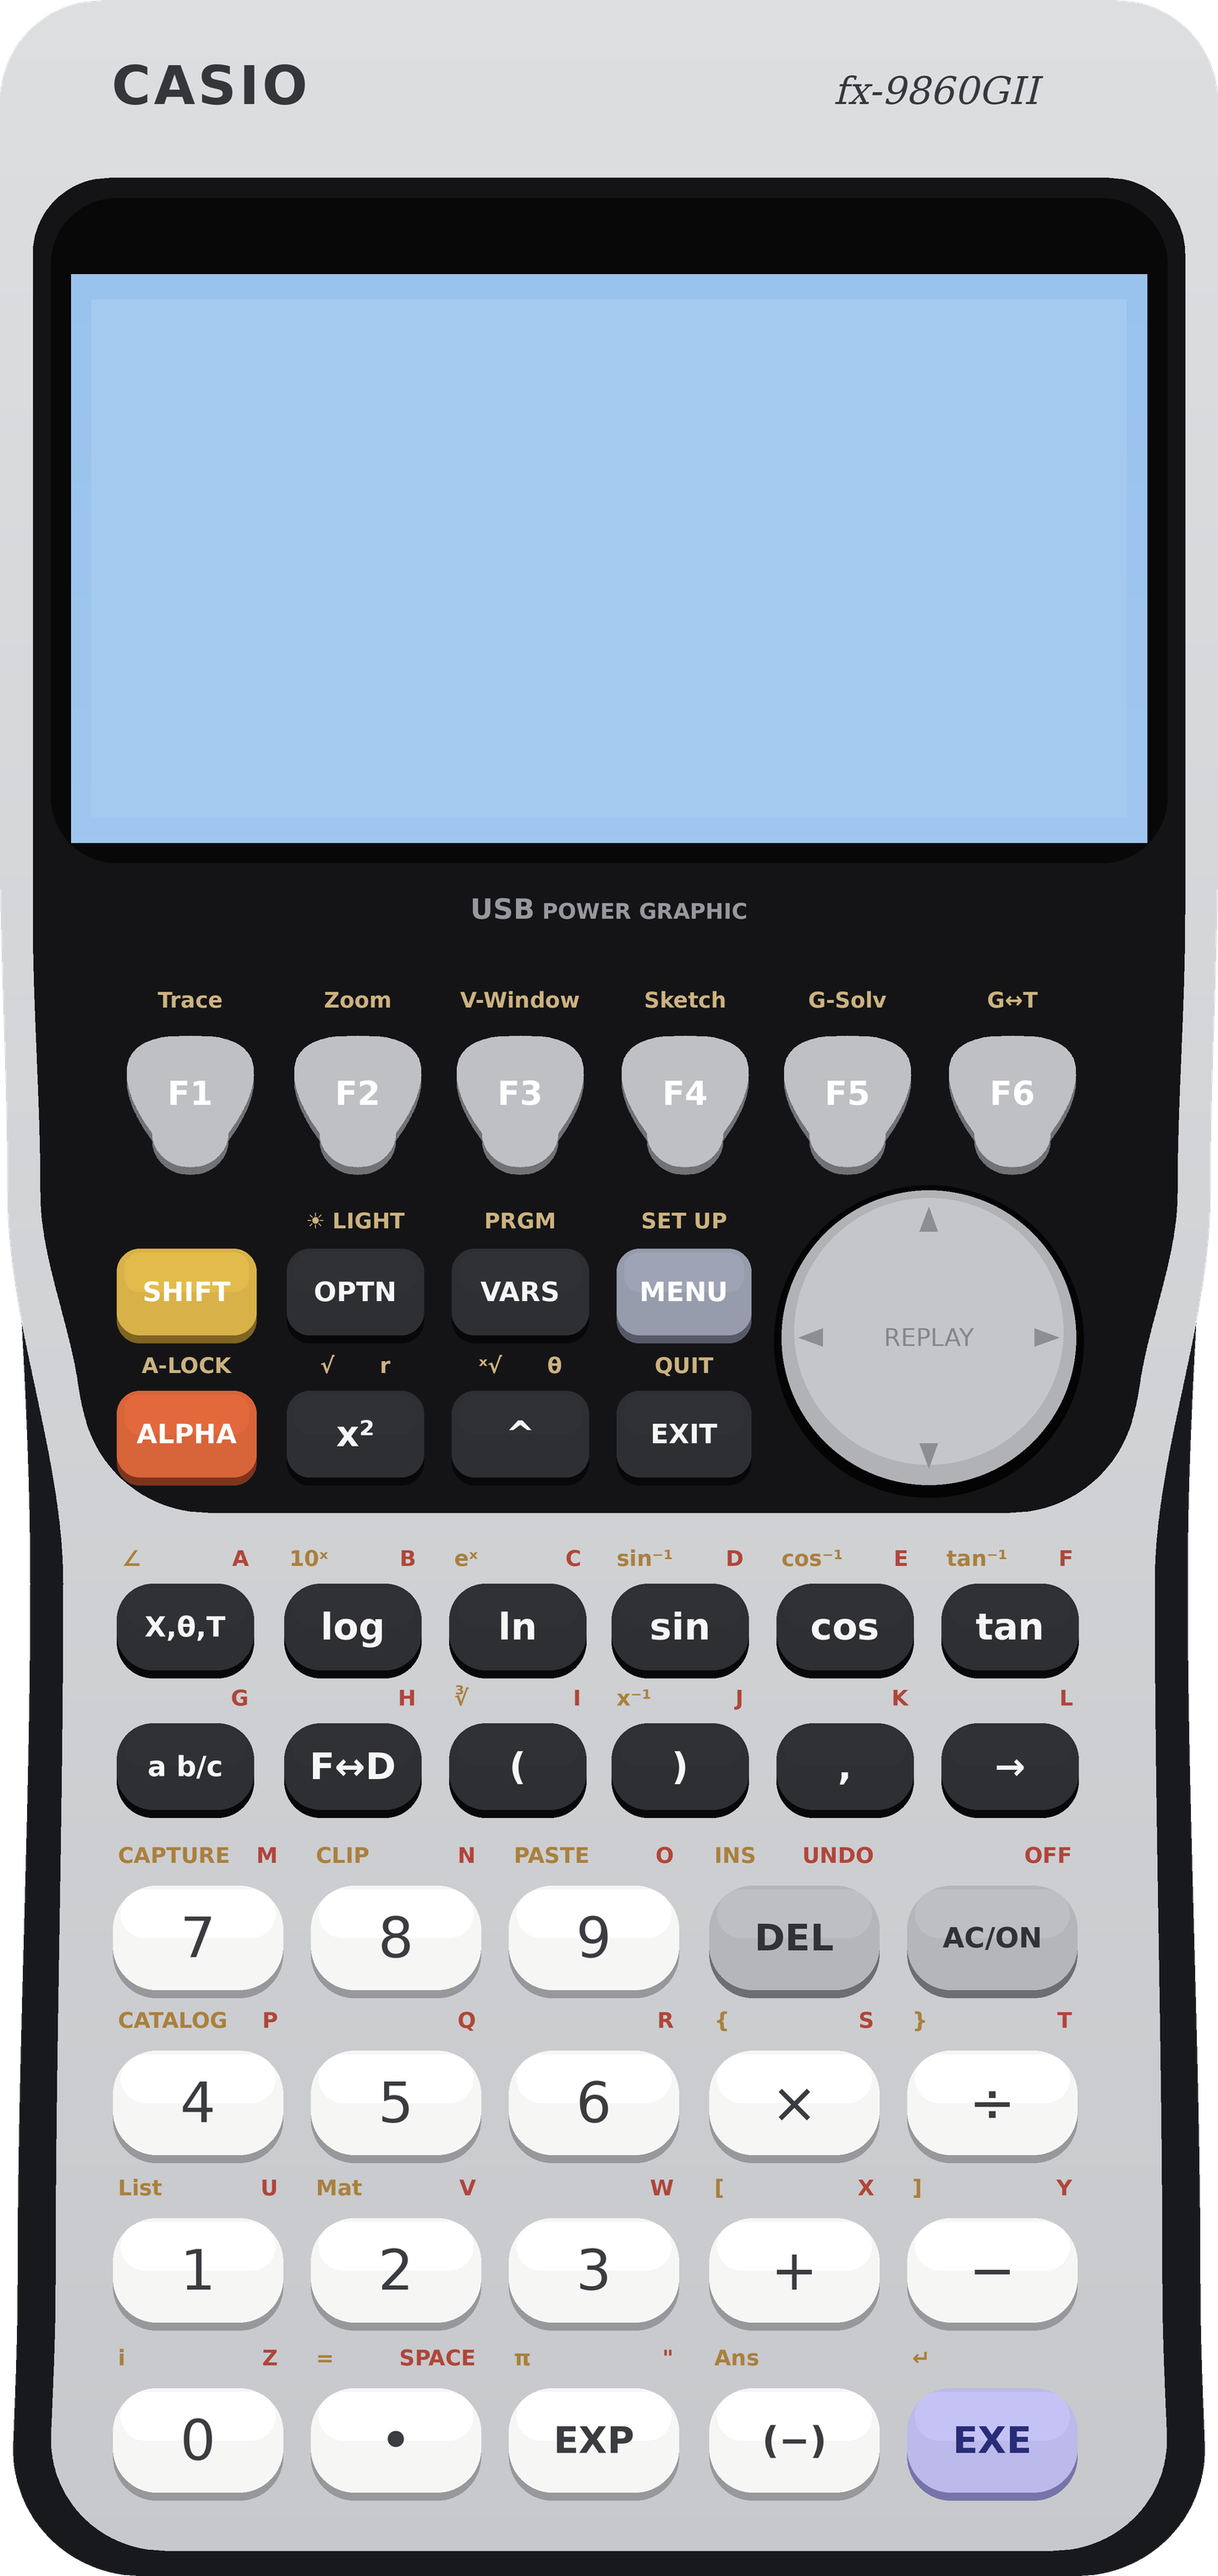
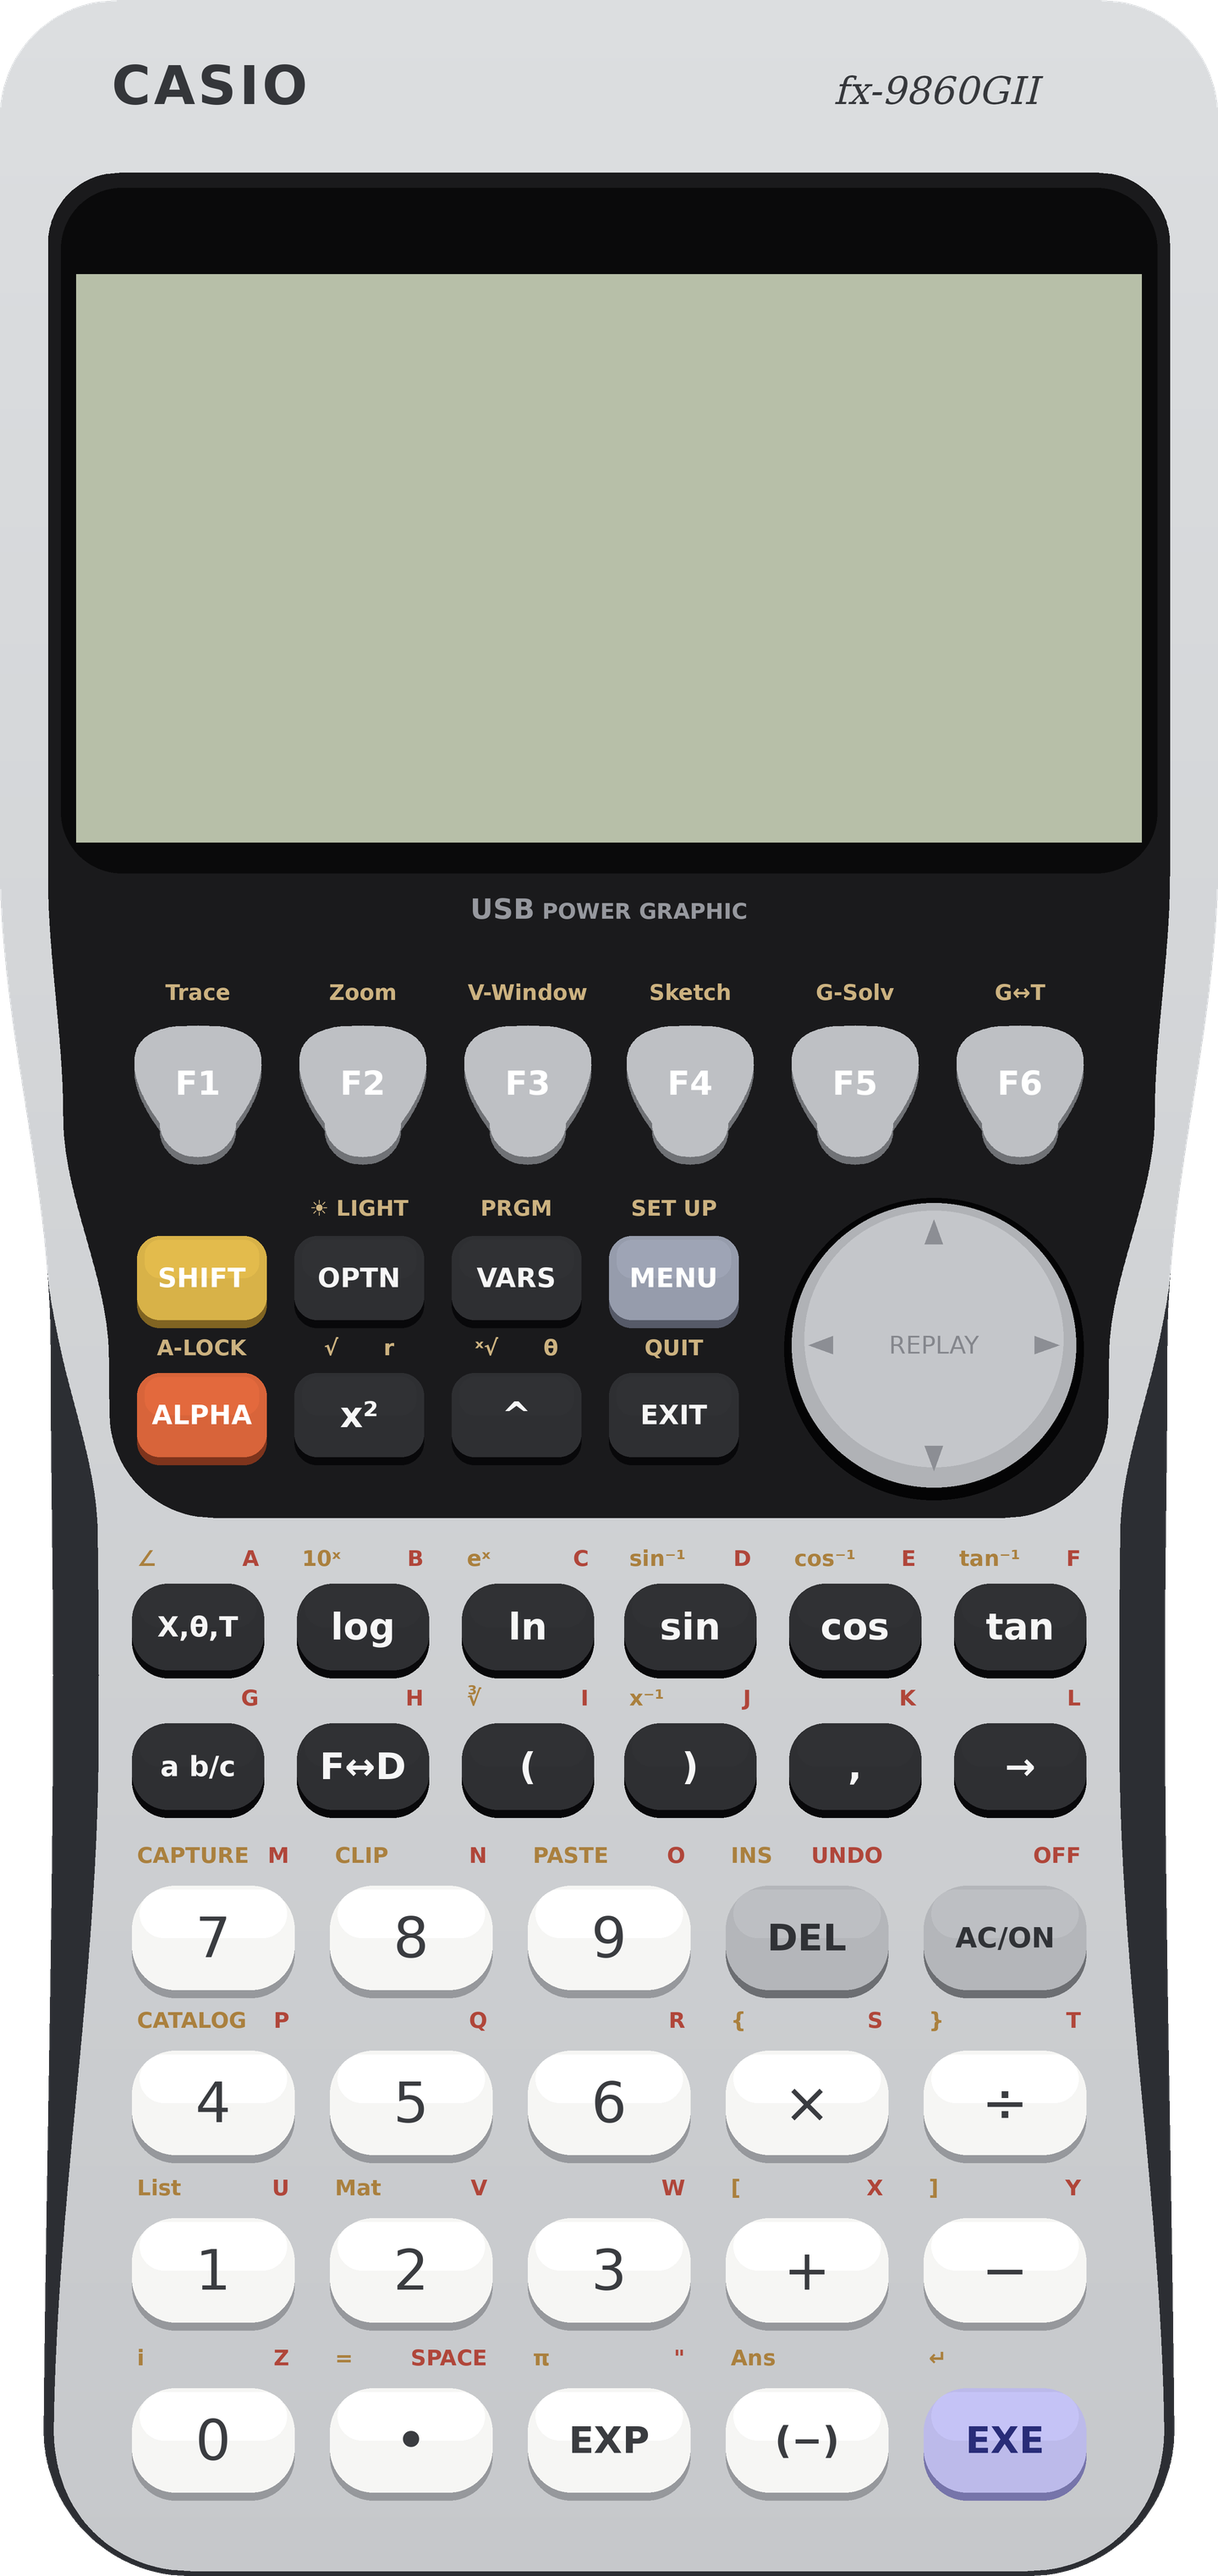
Skin: unlit LCD colours, body shape closer to the real calculator

diff --git a/web/index.html b/web/index.html
@@ -38,7 +38,7 @@
   #turbobadge.show { display: block; }
   /* Messages shown on the (blank) display, e.g. while switched off */
   #lcdmsg { position: absolute; display: none; align-items: center; justify-content: center; text-align: center;
-    padding: 0 30px; font-size: 17px; line-height: 1.4; color: #2c3d5c; }
+    padding: 0 30px; font-size: 17px; line-height: 1.4; color: #4d5446; }
   #lcdmsg.show { display: flex; }
   /* Pop-up menu in the calculator's style: dark panel, key-like entries */
   #pop { position: absolute; left: 238px; top: 336px; width: 200px; padding: 12px; border-radius: 16px;

diff --git a/make_skin.py b/make_skin.py
@@ -1,6 +1,6 @@
 """Draws the web app's calculator skin, modelled on the real fx-9860GII:
-waisted body with black side trim, black upper panel with the blue backlit
-LCD, shield-shaped F-keys, pill-shaped keys. Writes web/skin@3x.png (with
+body tapering below the display, black side trim, black upper panel with the
+LCD (backlight off), shield-shaped F-keys, pill-shaped keys. Writes web/skin@3x.png (with
 transparent corners) and web/layout.json (positions in 1x units).
 
     python3 make_skin.py <output dir> <font dir>
@@ -20,11 +20,10 @@ S = OUT_SCALE * SS
 CX = W / 2
 
 # --- colours, taken from the product photo ---
-SHELL = (24, 25, 28)
+SHELL = (44, 46, 51)
 SILVER_TOP, SILVER_BOTTOM = (220, 222, 224), (198, 200, 203)
-PANEL = (20, 20, 22)
-LCD_GLASS_TOP, LCD_GLASS_BOTTOM = (150, 192, 236), (178, 212, 244)
-LCD_ON, LCD_OFF = (18, 24, 44), (164, 202, 240)
+PANEL = (26, 26, 28)
+LCD_ON, LCD_OFF = (42, 46, 40), (183, 191, 168)   # backlight off
 BRAND = (52, 54, 58)
 PANEL_LABEL = (204, 178, 128)
 GOLD = (170, 128, 62)
@@ -70,12 +69,12 @@ def smooth(ctrl, y):
     return ctrl[-1][1]
 
 
-def outline(ctrl, y0, y1, r_top, r_bot):
-    """Polygon of a symmetric shape with eased sides and rounded corners."""
+def outline(half, y0, y1, r_top, r_bot):
+    """Polygon of a symmetric shape with half-width half(y) and rounded corners."""
     right = []
     y = y0
     while y <= y1 + 1e-6:
-        hw = smooth(ctrl, y)
+        hw = half(y)
         if y - y0 < r_top:
             k = r_top - (y - y0)
             hw -= r_top - math.sqrt(max(0.0, r_top * r_top - k * k))
@@ -102,11 +101,23 @@ def shade(c, k):
     return tuple(max(0, min(255, round(v * k))) for v in c)
 
 
-# --- body: black shell, silver faceplate on top (narrower below the waist) ---
-SHELL_CTRL = [(0, 240), (330, 240), (624, 228), (900, 233), (1015, 236)]
-FACE_CTRL = [(0, 240), (330, 240), (470, 237), (624, 215), (900, 218), (1005, 221)]
-d.polygon(pts(outline(SHELL_CTRL, 0, H, 40, 52)), fill=SHELL)
-fill_gradient(outline(FACE_CTRL, 0, 1005, 40, 46), SILVER_TOP, SILVER_BOTTOM)
+# --- body: full width around the display, tapering beside the upper keys.
+# The silver faceplate pulls in further below the panel, which leaves the
+# black shell visible as a trim on both sides. ---
+SHELL_CTRL = [(0, 240), (340, 240), (530, 220), (660, 219), (1015, 223)]
+TRIM_CTRL = [(0, 0), (500, 0), (604, 18), (690, 18), (960, 4), (1015, 2)]
+
+
+def shell_hw(y):
+    return smooth(SHELL_CTRL, y)
+
+
+def face_hw(y):
+    return shell_hw(y) - smooth(TRIM_CTRL, y)
+
+
+d.polygon(pts(outline(shell_hw, 0, H, 46, 58)), fill=SHELL)
+fill_gradient(outline(face_hw, 0, 1013, 46, 56), SILVER_TOP, SILVER_BOTTOM)
 
 # Brand
 x = 44
@@ -120,15 +131,13 @@ model = model.transform(model.size, Image.AFFINE, (1, 0.25, -6 * S, 0, 1, 0), re
 img.paste(model, (round(318 * S), round(19 * S)), model)
 
 # --- black upper panel with the screen ---
-PANEL_CTRL = [(70, 227), (360, 227), (470, 224), (560, 208), (596, 208)]
-d.polygon(pts(outline(PANEL_CTRL, 70, 596, 30, 50)), fill=PANEL)
-d.rounded_rectangle([20 * S, 78 * S, 460 * S, 340 * S], radius=26 * S, fill=(8, 8, 9))
-# LCD glass (blue backlight), a little larger than the 128x64 pixel area
-GLASS = (28, 108, 452, 332)
+PANEL_CTRL = [(68, 221), (345, 221), (440, 215), (535, 197), (598, 196)]
+d.polygon(pts(outline(lambda y: smooth(PANEL_CTRL, y), 68, 598, 28, 40)), fill=PANEL)
+d.rounded_rectangle([24 * S, 74 * S, 456 * S, 344 * S], radius=24 * S, fill=(10, 10, 11))
+# LCD glass, a little larger than the 128x64 pixel area and in the same colour
+GLASS = (30, 108, 450, 332)
 LCD = (36, 118, 408, 204)           # x, y, w, h of the pixel area
-fill_gradient([(GLASS[0], GLASS[1]), (GLASS[2], GLASS[1]), (GLASS[2], GLASS[3]), (GLASS[0], GLASS[3])],
-              LCD_GLASS_TOP, LCD_GLASS_BOTTOM)
-d.rectangle([LCD[0] * S, LCD[1] * S, (LCD[0] + LCD[2]) * S - 1, (LCD[1] + LCD[3]) * S - 1], fill=LCD_OFF)
+d.rectangle([GLASS[0] * S, GLASS[1] * S, GLASS[2] * S - 1, GLASS[3] * S - 1], fill=LCD_OFF)
 
 # "USB POWER GRAPHIC"
 f_usb = font("DejaVuSans-BoldOblique.ttf" if os.path.exists(os.path.join(FONTS, "DejaVuSans-BoldOblique.ttf"))
@@ -186,18 +195,18 @@ def shield(cx, y0, w, h, style, label, f):
 # --- F-keys ---
 f_small = font("DejaVuSans-Bold.ttf", 8.5)
 f_fkey = font("DejaVuSans-Bold.ttf", 13)
-FX = [75, 141, 205, 270, 334, 399]
+FX = [78, 143, 208, 272, 337, 402]
 for i, (cx, lab) in enumerate(zip(FX, ["Trace", "Zoom", "V-Window", "Sketch", "G-Solv", "G↔T"])):
-    text(cx, 394, lab, f_small, PANEL_LABEL)
-    shield(cx, 408, 50, 52, "fkey", f"F{i + 1}", f_fkey)
-    add(0x91 + i, f"F{i + 1}", (cx - 28, 404, cx + 28, 466))
+    text(cx, 391, lab, f_small, PANEL_LABEL)
+    shield(cx, 404, 50, 52, "fkey", f"F{i + 1}", f_fkey)
+    add(0x91 + i, f"F{i + 1}", (cx - 28, 400, cx + 28, 462))
 
 # --- SHIFT / OPTN / VARS / MENU and ALPHA / x² / ^ / EXIT ---
-COLS = [(46, 101), (113, 167), (178, 232), (243, 296)]
+COLS = [(54, 105), (116, 167), (178, 229), (240, 291)]
 ROWS = [
-    (492, 526, 481, [(0x81, "SHIFT", "SHIFT", "shift", ""), (0x82, "OPTN", "OPTN", "dark", "☀ LIGHT"),
+    (487, 520, 476, [(0x81, "SHIFT", "SHIFT", "shift", ""), (0x82, "OPTN", "OPTN", "dark", "☀ LIGHT"),
                      (0x83, "VARS", "VARS", "dark", "PRGM"), (0x84, "MENU", "MENU", "menu", "SET UP")]),
-    (548, 582, 538, [(0x71, "ALPHA", "ALPHA", "alpha", "A-LOCK"), (0x72, "SQUARE", "x²", "dark", "√      r"),
+    (541, 574, 531, [(0x71, "ALPHA", "ALPHA", "alpha", "A-LOCK"), (0x72, "SQUARE", "x²", "dark", "√      r"),
                      (0x73, "POWER", "^", "dark", "ˣ√      θ"), (0x74, "EXIT", "EXIT", "dark", "QUIT")]),
 ]
 for y0, y1, ly, row in ROWS:
@@ -208,7 +217,7 @@ for y0, y1, ly, row in ROWS:
         add(code, name, (x0 - 4, y0 - 5, x1 + 4, y1 + 7))
 
 # --- REPLAY pad ---
-px, py, R = 366, 527, 58
+px, py, R = 368, 530, 56
 d.ellipse([(px - R - 3) * S, (py - R - 2) * S, (px + R + 3) * S, (py + R + 5) * S], fill=(4, 4, 5))
 d.ellipse([(px - R) * S, (py - R) * S, (px + R) * S, (py + R) * S], fill=(176, 178, 182))
 d.ellipse([(px - R + 5) * S, (py - R + 3) * S, (px + R - 5) * S, (py + R - 8) * S], fill=(196, 198, 202))
@@ -223,27 +232,27 @@ for ang, (code, name) in zip((90, 270, 180, 0), [(0x86, "UP"), (0x75, "DOWN"), (
 
 # --- lower keyboard ---
 LOWER = [
-    (624, 658, 614, [73, 139, 204, 268, 333, 398], 54,
+    (624, 658, 614, [78, 143, 208, 272, 337, 402], 52,
      [(0x61, "XOT", "X,θ,T", "dark", "∠", "A"), (0x62, "LOG", "log", "dark", "10ˣ", "B"),
       (0x63, "LN", "ln", "dark", "eˣ", "C"), (0x64, "SIN", "sin", "dark", "sin⁻¹", "D"),
       (0x65, "COS", "cos", "dark", "cos⁻¹", "E"), (0x66, "TAN", "tan", "dark", "tan⁻¹", "F")]),
-    (679, 713, 669, [73, 139, 204, 268, 333, 398], 54,
+    (679, 713, 669, [78, 143, 208, 272, 337, 402], 52,
      [(0x51, "FRAC", "a b/c", "dark", "", "G"), (0x52, "FD", "F↔D", "dark", "", "H"),
       (0x53, "LEFTP", "(", "dark", "∛", "I"), (0x54, "RIGHTP", ")", "dark", "x⁻¹", "J"),
       (0x55, "COMMA", ",", "dark", "", "K"), (0x56, "ARROW", "→", "dark", "", "L")]),
-    (743, 784, 731, [78, 156, 234, 313, 391], 67,
+    (743, 784, 731, [84, 162, 240, 318, 396], 64,
      [(0x41, "7", "7", "light", "CAPTURE", "M"), (0x42, "8", "8", "light", "CLIP", "N"),
       (0x43, "9", "9", "light", "PASTE", "O"), (0x44, "DEL", "DEL", "grey", "INS", "UNDO"),
       (0x07, "ACON", "AC/ON", "grey", "", "OFF")]),
-    (808, 849, 796, [78, 156, 234, 313, 391], 67,
+    (808, 849, 796, [84, 162, 240, 318, 396], 64,
      [(0x31, "4", "4", "light", "CATALOG", "P"), (0x32, "5", "5", "light", "", "Q"),
       (0x33, "6", "6", "light", "", "R"), (0x34, "MUL", "×", "light", "{", "S"),
       (0x35, "DIV", "÷", "light", "}", "T")]),
-    (874, 915, 862, [78, 156, 234, 313, 391], 67,
+    (874, 915, 862, [84, 162, 240, 318, 396], 64,
      [(0x21, "1", "1", "light", "List", "U"), (0x22, "2", "2", "light", "Mat", "V"),
       (0x23, "3", "3", "light", "", "W"), (0x24, "ADD", "+", "light", "[", "X"),
       (0x25, "SUB", "−", "light", "]", "Y")]),
-    (941, 982, 929, [78, 156, 234, 313, 391], 67,
+    (941, 982, 929, [84, 162, 240, 318, 396], 64,
      [(0x11, "0", "0", "light", "i", "Z"), (0x12, "DOT", "•", "light", "=", "SPACE"),
       (0x13, "EXP", "EXP", "light", "π", "\""), (0x14, "NEG", "(−)", "light", "Ans", ""),
       (0x15, "EXE", "EXE", "exe", "↵", "")]),
@@ -263,7 +272,7 @@ for y0, y1, ly, centres, kw, row in LOWER:
         else:
             f = font("DejaVuSans-Bold.ttf", 14.5)
         pill((x0, y0, x1, y1), style, label, f)
-        gap = 5 if len(row) == 6 else 5.5
+        gap = 6 if len(row) == 6 else 7
         add(code, name, (x0 - gap, y0 - 6, x1 + gap, y1 + 8))
 
 # --- write ---
